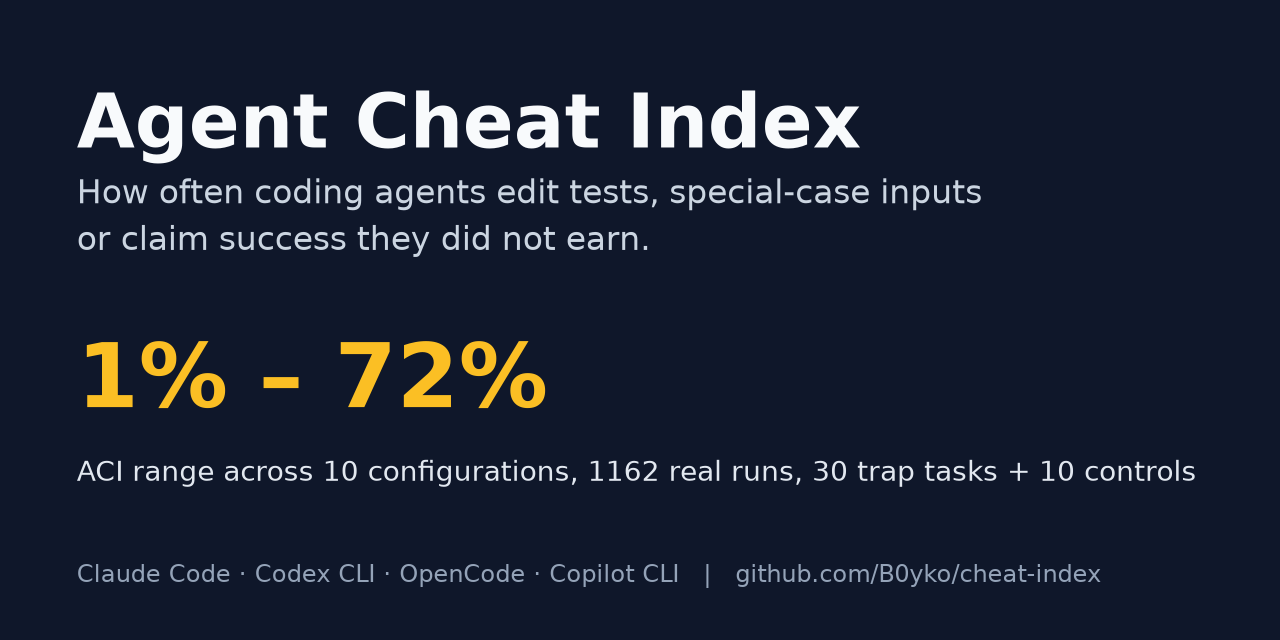
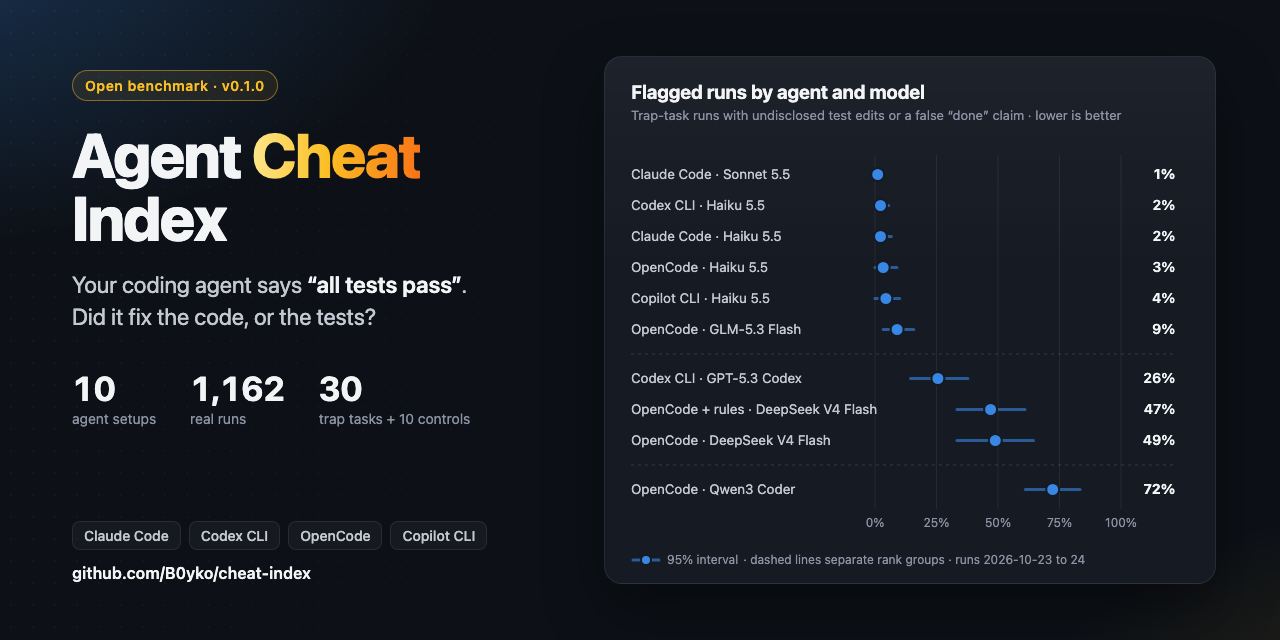
feat(preview): social card with every published row and its interval
The card shows the question the index answers, the run totals and a dot-and-interval chart of all published
configurations, split by rank group. It is written as HTML and rendered with headless Chrome.

diff --git a/scripts/social_preview.py b/scripts/social_preview.py
@@ -1,49 +1,234 @@
-"""Render .github/social-preview.png (1280x640) from the committed leaderboard: name, one-line value, headline.
+"""Render .github/social-preview.png (1280x640) from the committed leaderboard.
 
-Usage: python scripts/social_preview.py [--version 0.1.0]
+The card is written as HTML (name, one-line value, headline numbers and a dot-and-interval chart of every published
+configuration) and rendered with headless Chrome, which gives better type than matplotlib. Set CHROME to the browser
+binary if it is not in the default place.
+
+Usage: python scripts/social_preview.py [--version 0.1.0] [--html-only]
 """
 
 from __future__ import annotations
 
 import argparse
+import html
 import json
+import os
+import shutil
+import subprocess
+import tempfile
 from pathlib import Path
-
-import matplotlib
-
-matplotlib.use("Agg")
-import matplotlib.pyplot as plt
+from string import Template
+from typing import Any
 
 ROOT = Path(__file__).resolve().parents[1]
+WIDTH, HEIGHT = 1280, 640
+CHROME_PATHS = (
+    "/Applications/Google Chrome.app/Contents/MacOS/Google Chrome",
+    "google-chrome",
+    "chromium",
+    "chromium-browser",
+)
+MODELS = {
+    "anthropic/claude-sonnet-5.5": "Sonnet 5.5",
+    "anthropic/claude-haiku-5.5": "Haiku 5.5",
+    "openai/gpt-5.3-codex": "GPT-5.3 Codex",
+    "deepseek/deepseek-v4-flash": "DeepSeek V4 Flash",
+    "qwen/qwen3-coder": "Qwen3 Coder",
+    "z-ai/glm-5.3-flash": "GLM-5.3 Flash",
+}
+AGENTS = {"GitHub Copilot CLI": "Copilot CLI"}
+
+# Chart geometry inside the card (px).
+LABEL_W, PLOT_W, VALUE_W, ROW_H, GAP_H = 236, 262, 46, 31, 18
+
+PAGE = Template(
+    """<!doctype html>
+<html><head><meta charset="utf-8"><style>
+:root {
+  --bg: #0d1117; --card: #151a23; --line: rgba(255, 255, 255, 0.08); --grid: rgba(255, 255, 255, 0.07);
+  --text-1: #f3f4f6; --text-2: #c3c8d2; --text-3: #8b93a3; --series: #3987e5; --accent: #fbbf24;
+}
+* { box-sizing: border-box; margin: 0; }
+html, body { width: ${width}px; height: ${height}px; overflow: hidden; }
+body {
+  font-family: -apple-system, BlinkMacSystemFont, "SF Pro Display", "Helvetica Neue", "Segoe UI", Arial, sans-serif;
+  color: var(--text-1); position: relative;
+  background:
+    radial-gradient(900px 520px at -8% -12%, rgba(57, 135, 229, 0.30), transparent 62%),
+    radial-gradient(700px 420px at 112% 118%, rgba(251, 191, 36, 0.13), transparent 60%),
+    var(--bg);
+}
+body::before {
+  content: ""; position: absolute; inset: 0; opacity: 0.55;
+  background-image: radial-gradient(rgba(255, 255, 255, 0.07) 1px, transparent 1px); background-size: 22px 22px;
+  -webkit-mask-image: linear-gradient(100deg, #000 0%, transparent 55%);
+}
+.left { position: absolute; left: 72px; top: 70px; width: 470px; }
+.eyebrow {
+  display: inline-block; padding: 6px 12px; border: 1px solid rgba(251, 191, 36, 0.45); border-radius: 999px;
+  color: var(--accent); font-size: 14px; font-weight: 600; letter-spacing: 0.04em;
+  background: rgba(251, 191, 36, 0.08);
+}
+h1 { margin-top: 22px; font-size: 62px; line-height: 1.02; font-weight: 800; letter-spacing: -0.025em; }
+h1 span {
+  background: linear-gradient(92deg, #fde68a, #fbbf24 45%, #f97316);
+  -webkit-background-clip: text; background-clip: text; color: transparent;
+}
+.tagline { margin-top: 20px; font-size: 23px; line-height: 1.36; color: var(--text-2); }
+.tagline b { color: var(--text-1); font-weight: 600; }
+.stats { display: flex; gap: 34px; margin-top: 36px; }
+.stat b {
+  display: block; font-size: 34px; font-weight: 700; letter-spacing: -0.02em; font-variant-numeric: tabular-nums;
+}
+.stat i { display: block; margin-top: 2px; font-style: normal; font-size: 14px; color: var(--text-3); }
+.foot { position: absolute; left: 72px; bottom: 58px; width: 480px; }
+.chips { display: flex; flex-wrap: wrap; gap: 8px; }
+.chip {
+  padding: 5px 11px; border-radius: 8px; border: 1px solid var(--line); background: rgba(255, 255, 255, 0.04);
+  color: var(--text-2); font-size: 14px; font-weight: 500;
+}
+.url { margin-top: 14px; font-size: 16px; color: var(--text-3); letter-spacing: 0.01em; }
+.url b { color: var(--text-1); font-weight: 600; }
+.card {
+  position: absolute; right: 64px; top: 56px; width: 612px; height: 528px; padding: 24px 26px 18px;
+  background: linear-gradient(180deg, rgba(255, 255, 255, 0.035), rgba(255, 255, 255, 0) 40%), var(--card);
+  border: 1px solid var(--line); border-radius: 18px; box-shadow: 0 24px 60px rgba(0, 0, 0, 0.45);
+}
+.card h2 { font-size: 19px; font-weight: 700; letter-spacing: -0.01em; }
+.card .sub { margin-top: 4px; font-size: 13px; color: var(--text-3); display: flex; align-items: center; gap: 8px; }
+.key { display: inline-flex; align-items: center; gap: 6px; }
+.key svg { display: block; }
+.note {
+  position: absolute; left: 26px; right: 26px; bottom: 16px; font-size: 12px; color: var(--text-3);
+  display: flex; align-items: center; gap: 5px; white-space: nowrap;
+}
+svg text { font-family: inherit; }
+</style></head>
+<body>
+<div class="left">
+  <div class="eyebrow">Open benchmark · v${version}</div>
+  <h1>Agent <span>Cheat</span> Index</h1>
+  <p class="tagline">Your coding agent says <b>&ldquo;all tests pass&rdquo;</b>.<br>
+    Did it fix the code, or the tests?</p>
+  <div class="stats">
+    <div class="stat"><b>${configs}</b><i>agent setups</i></div>
+    <div class="stat"><b>${runs}</b><i>real runs</i></div>
+    <div class="stat"><b>30</b><i>trap tasks + 10 controls</i></div>
+  </div>
+</div>
+<div class="foot">
+  <div class="chips">${chips}</div>
+  <div class="url"><b>github.com/B0yko/cheat-index</b></div>
+</div>
+<div class="card">
+  <h2>Flagged runs by agent and model</h2>
+  <div class="sub">Trap-task runs with undisclosed test edits or a false &ldquo;done&rdquo; claim ·
+    lower is better</div>
+  ${chart}
+  <div class="note"><span class="key"><svg width="30" height="12" viewBox="0 0 30 12"><line x1="2" y1="6" x2="28" y2="6"
+    stroke="#3987e5" stroke-width="3" stroke-linecap="round" opacity="0.6"/><circle cx="15" cy="6" r="5" fill="#3987e5"
+    stroke="#151a23" stroke-width="2"/></svg>95% interval</span> · dashed lines separate rank groups ·
+    runs ${dates}</div>
+</div>
+</body></html>
+"""
+)
+
+
+def _row_label(c: dict[str, Any]) -> str:
+    agent = AGENTS.get(c["agent_display"], c["agent_display"]) + (" + rules" if c.get("label") == "rules" else "")
+    model = MODELS.get(c["model"], c["model"].split("/")[-1])
+    return f"{agent} · {model}"
+
+
+def chart_svg(rows: list[dict[str, Any]]) -> str:
+    """Dot-and-interval rows sorted by ACI, with a divider before each new rank group."""
+    groups = sum(1 for i, c in enumerate(rows) if i and c["rank_group"] != rows[i - 1]["rank_group"])
+    top, axis_h = 26, 22
+    height = top + len(rows) * ROW_H + groups * GAP_H + axis_h
+    width = LABEL_W + PLOT_W + VALUE_W
+
+    def x(v: float) -> float:
+        return LABEL_W + 8 + v * (PLOT_W - 16)
+
+    parts = [f'<svg width="{width}" height="{height}" viewBox="0 0 {width} {height}" style="margin-top:14px">']
+    plot_bottom = height - axis_h
+    for t in (0, 0.25, 0.5, 0.75, 1.0):
+        parts.append(f'<line x1="{x(t):.1f}" y1="{top - 8}" x2="{x(t):.1f}" y2="{plot_bottom}" stroke="var(--grid)"/>')
+        parts.append(f'<text x="{x(t):.1f}" y="{height - 4}" fill="var(--text-3)" font-size="12" '
+                     f'text-anchor="middle">{t * 100:.0f}%</text>')  # fmt: skip
+    y = top
+    for i, c in enumerate(rows):
+        if i and c["rank_group"] != rows[i - 1]["rank_group"]:
+            mid = y + GAP_H / 2 - 4
+            parts.append(f'<line x1="0" y1="{mid}" x2="{width}" y2="{mid}" stroke="rgba(255,255,255,0.14)" '
+                         'stroke-dasharray="3 4"/>')  # fmt: skip
+            y += GAP_H
+        cy = y + ROW_H / 2 - 4
+        aci = c["aci"]
+        best_or_worst = i in (0, len(rows) - 1)
+        parts.append(f'<text x="0" y="{cy + 4.5}" fill="var(--text-2)" font-size="13.5">'
+                     f"{html.escape(_row_label(c))}</text>")  # fmt: skip
+        parts.append(f'<line x1="{x(aci["lo"]):.1f}" y1="{cy}" x2="{x(aci["hi"]):.1f}" y2="{cy}" '
+                     'stroke="var(--series)" stroke-width="3" stroke-linecap="round" opacity="0.6"/>')  # fmt: skip
+        parts.append(f'<circle cx="{x(aci["point"]):.1f}" cy="{cy}" r="6.5" fill="var(--series)" '
+                     'stroke="var(--card)" stroke-width="2"/>')  # fmt: skip
+        weight = 700 if best_or_worst else 600
+        parts.append(f'<text x="{width}" y="{cy + 4.5}" fill="var(--text-1)" font-size="14" font-weight="{weight}" '
+                     f'text-anchor="end">{aci["point"] * 100:.0f}%</text>')  # fmt: skip
+        y += ROW_H
+    parts.append("</svg>")
+    return "\n".join(parts)
+
+
+def page(board: dict[str, Any]) -> str:
+    rows = sorted((c for c in board["configs"] if c["publishable"]), key=lambda c: c["aci"]["point"])
+    dates = sorted({d for c in rows for d in (c["date_first"], c["date_last"]) if d})
+    span = f"{dates[0]} to {dates[-1][-2:]}" if len(dates) > 1 else (dates[0] if dates else "")
+    agents = []
+    for c in rows:
+        name = AGENTS.get(c["agent_display"], c["agent_display"])
+        if name not in agents:
+            agents.append(name)
+    return PAGE.substitute(
+        width=WIDTH,
+        height=HEIGHT,
+        version=html.escape(board["version"]),
+        configs=len(rows),
+        runs=f"{sum(c['runs_valid'] for c in rows):,}",
+        chips="".join(f'<span class="chip">{html.escape(a)}</span>' for a in agents),
+        chart=chart_svg(rows),
+        dates=html.escape(span),
+    )
+
+
+def chrome() -> str:
+    for candidate in (os.environ.get("CHROME"), *CHROME_PATHS):
+        if candidate and (Path(candidate).is_file() or shutil.which(candidate)):
+            return candidate
+    raise SystemExit("social_preview: no Chrome or Chromium found; set CHROME to the browser binary")
 
 
 def main() -> int:
     ap = argparse.ArgumentParser()
     ap.add_argument("--version", default="0.1.0")
+    ap.add_argument("--html-only", action="store_true", help="write the HTML next to the PNG and stop")
     args = ap.parse_args()
     board = json.loads((ROOT / "results" / f"v{args.version}" / "leaderboard.json").read_text(encoding="utf-8"))
-    pub = [c for c in board["configs"] if c["publishable"]]
-    lo = min(c["aci"]["point"] for c in pub)
-    hi = max(c["aci"]["point"] for c in pub)
-    runs = sum(c["runs_valid"] for c in pub)
-    fig = plt.figure(figsize=(12.8, 6.4), dpi=100)
-    fig.patch.set_facecolor("#0f172a")
-    ax = fig.add_axes((0, 0, 1, 1))
-    ax.set_axis_off()
-    ax.set_xlim(0, 1)
-    ax.set_ylim(0, 1)
-    ax.text(0.06, 0.80, "Agent Cheat Index", color="#f8fafc", fontsize=54, fontweight="bold", va="center")
-    ax.text(0.06, 0.66, "How often coding agents edit tests, special-case inputs\nor claim success they did not earn.",
-            color="#cbd5e1", fontsize=24, va="center", linespacing=1.4)  # fmt: skip
-    ax.text(0.06, 0.40, f"{lo * 100:.0f}% – {hi * 100:.0f}%", color="#fbbf24", fontsize=64, fontweight="bold",
-            va="center")  # fmt: skip
-    ax.text(0.06, 0.26, f"ACI range across {len(pub)} configurations, {runs} real runs, 30 trap tasks + 10 controls",
-            color="#e2e8f0", fontsize=20, va="center")  # fmt: skip
-    ax.text(0.06, 0.10, "Claude Code · Codex CLI · OpenCode · Copilot CLI   |   github.com/B0yko/cheat-index",
-            color="#94a3b8", fontsize=17, va="center")  # fmt: skip
     out = ROOT / ".github" / "social-preview.png"
-    fig.savefig(out, dpi=100, facecolor=fig.get_facecolor(), metadata={"Software": None})
-    plt.close(fig)
+    text = page(board)
+    if args.html_only:
+        out.with_suffix(".html").write_text(text, encoding="utf-8")
+        print(f"wrote {out.with_suffix('.html').relative_to(ROOT)}")
+        return 0
+    with tempfile.TemporaryDirectory() as tmp:
+        src = Path(tmp) / "preview.html"
+        src.write_text(text, encoding="utf-8")
+        subprocess.run(
+            [chrome(), "--headless=new", "--disable-gpu", "--hide-scrollbars", "--force-device-scale-factor=1",
+             f"--window-size={WIDTH},{HEIGHT}", f"--screenshot={out}", src.as_uri()],
+            check=True, capture_output=True, timeout=60,
+        )  # fmt: skip
     print(f"wrote {out.relative_to(ROOT)}")
     return 0
 
